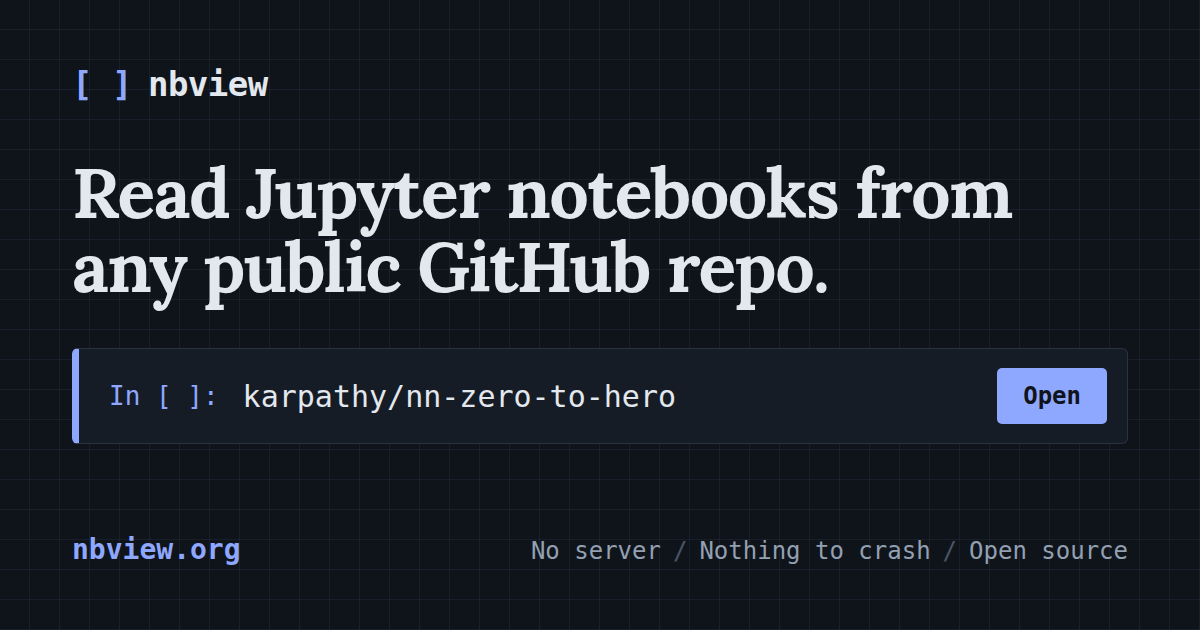
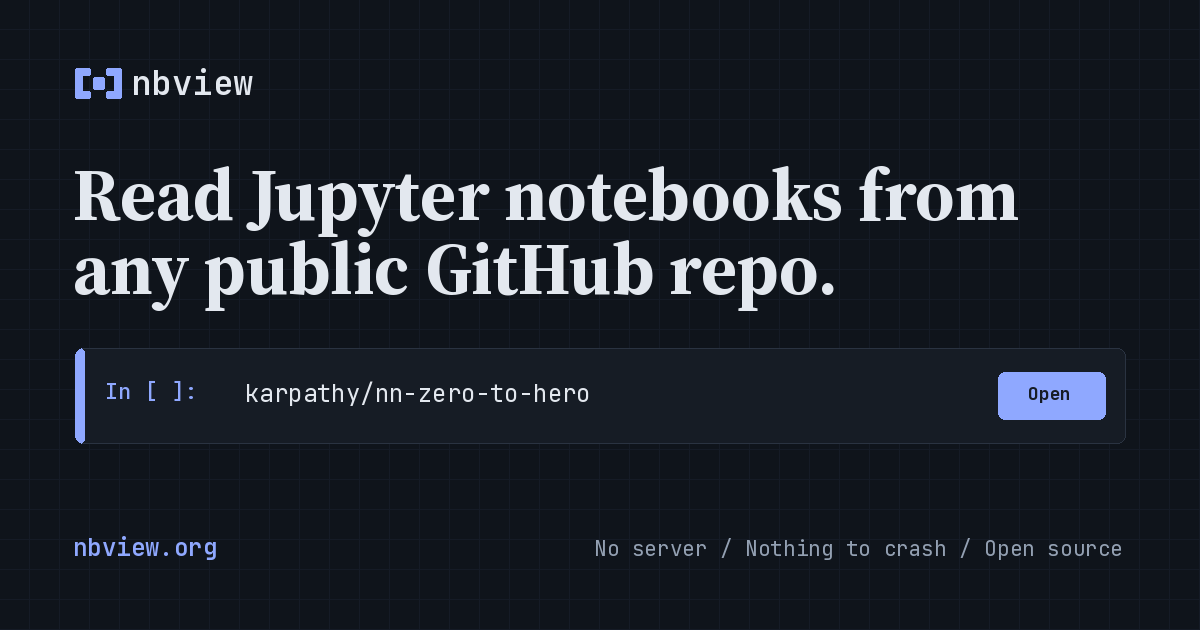
Add a web app manifest and regenerate the social previews.
Installed copies show the nbview mark and short name, with a maskable icon for Android and a themed status bar. The light and dark og images now draw the cell mark in the brand lockup instead of typing the brackets.

🤖 Generated with Codebuff

diff --git a/index.html b/index.html
@@ -17,6 +17,9 @@
   <link rel="icon" href="assets/favicon-32.png" type="image/png" sizes="32x32">
   <link rel="icon" href="assets/favicon-16.png" type="image/png" sizes="16x16">
   <link rel="apple-touch-icon" href="assets/apple-touch-icon.png">
+  <link rel="manifest" href="manifest.webmanifest">
+  <meta name="theme-color" content="#2D52CF">
+  <meta name="apple-mobile-web-app-title" content="nbview">
   <script src="assets/js/theme.js"></script>
   <link rel="stylesheet" href="assets/css/style.css">
 </head>

diff --git a/CHANGELOG.md b/CHANGELOG.md
@@ -14,6 +14,8 @@ All notable changes to nbview. Dates are when the release's last change landed o
 ### Changed
 - **New mark.** The tab icon is now nbview's own `[ ]` cell mark instead of the notebook emoji — SVG first, with 16/32/48/180/512 PNG and `.ico` fallbacks — and the wordmark in the top bar draws the same mark rather than the typed `[ ]` characters.
 
+- **Installable, with a new preview card.** `manifest.webmanifest` gives nbview a home-screen name and icon, a maskable PNG for Android and a themed status bar. The two `og-*.png` social images are regenerated with the drawn cell mark where the brackets used to be typed.
+
 ### Removed
 - The "Skip to content" link. It was invisible until it received keyboard focus, easy to miss, and the top bar is only a few controls wide, so it caused more confusion than it saved. Focus still moves to the main content when the view changes, so keyboard and screen reader users keep their place.
 

diff --git a/README.md b/README.md
@@ -52,6 +52,7 @@ nbview/
 ├── _redirects           nbviewer-style /url and /urls paths -> /#/... routes (the domain swap)
 ├── functions/           /github and /gist: redirect to the viewer, and answer link-preview crawlers with a card made from the link
 │                        /embed: the same page without the toolbar, framed by other sites; /auth: optional GitHub sign-in
+├── manifest.webmanifest  name, colours and icon for a home screen install
 ├── _headers             security headers: strict CSP (no forms, only this site can frame it, scripts from this site only)
 ├── sandbox/plotly/      the page inside the isolated chart frame
 ├── robots.txt           allow all crawlers, points to the sitemap
